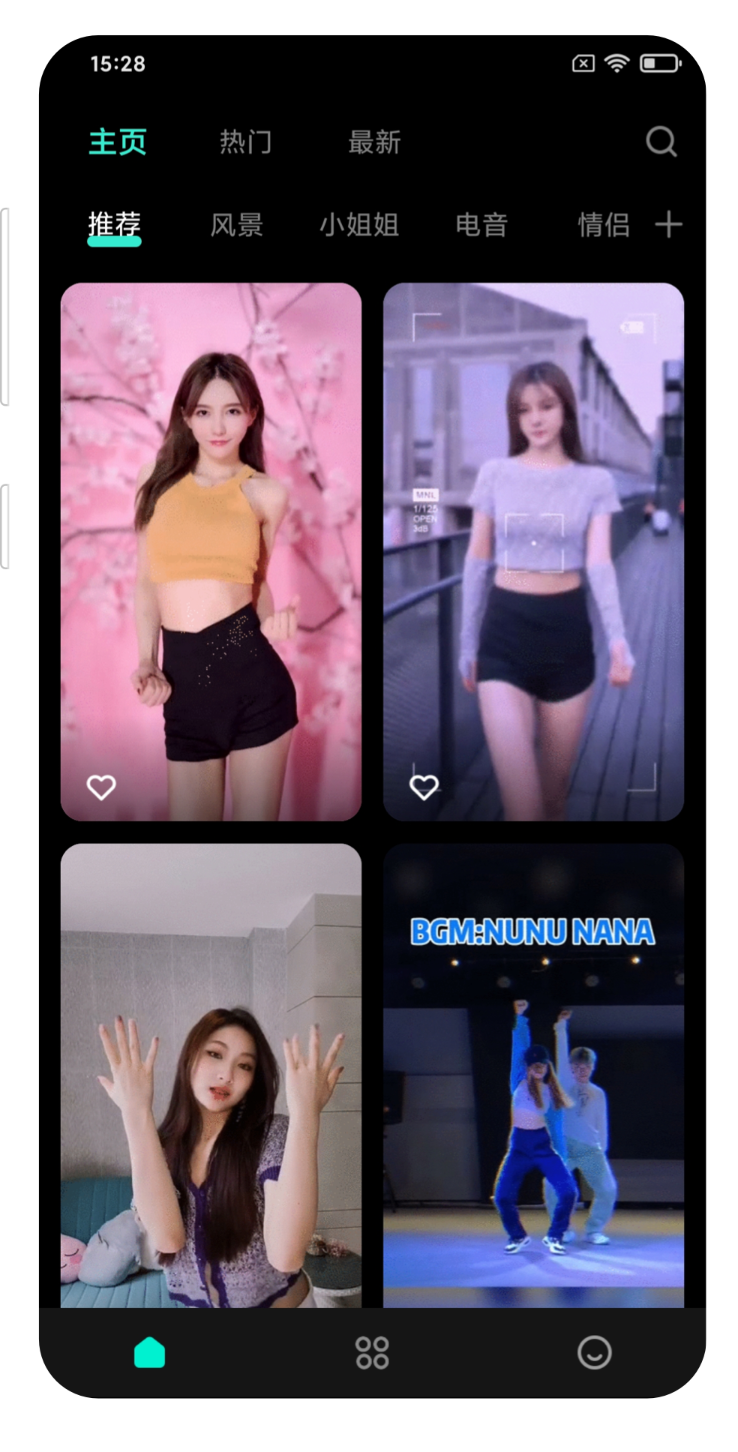
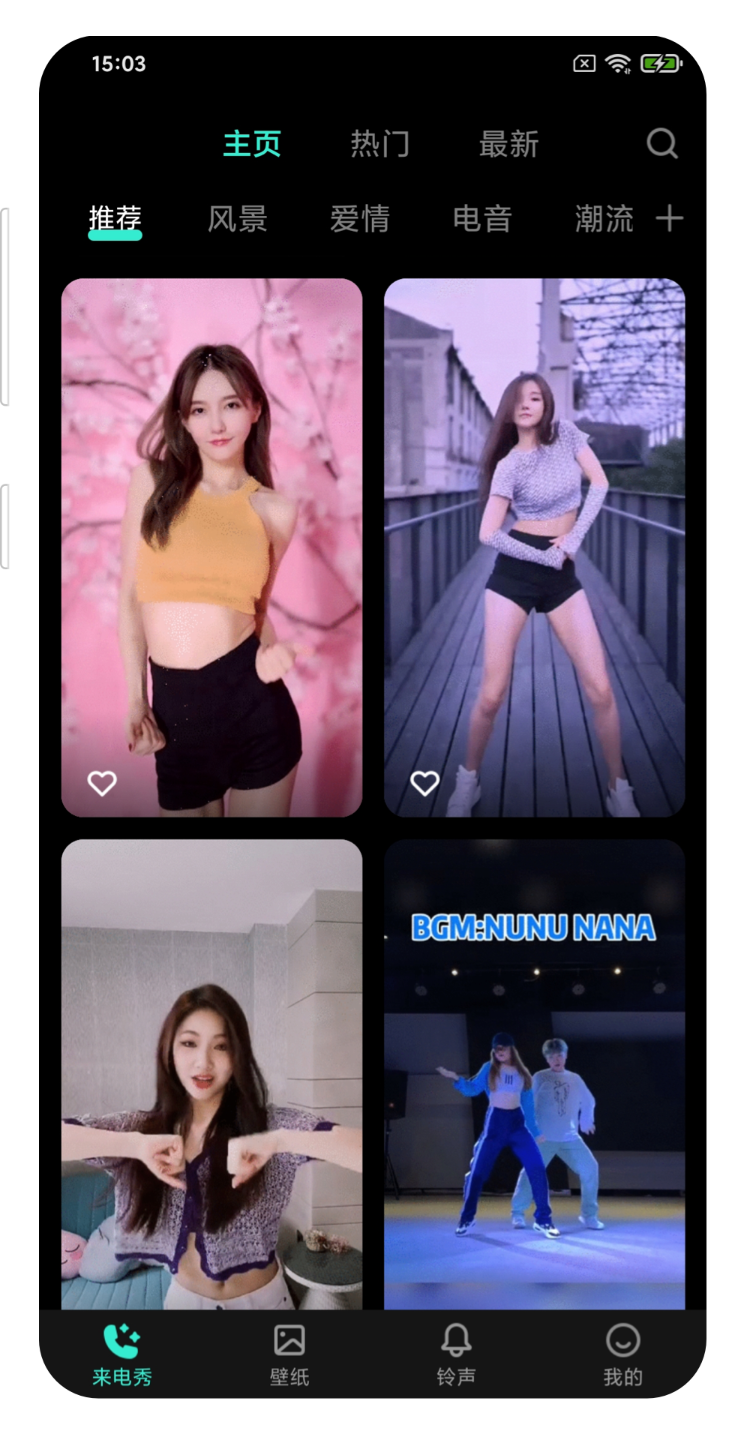
update img

diff --git a/index.html b/index.html
@@ -64,7 +64,7 @@
 				z-index: auto;
 				left: 0;
 				right: 0;
-				bottom: 0.1rem;
+				bottom: 0.25rem;
 			}
 			
 			#bg {
